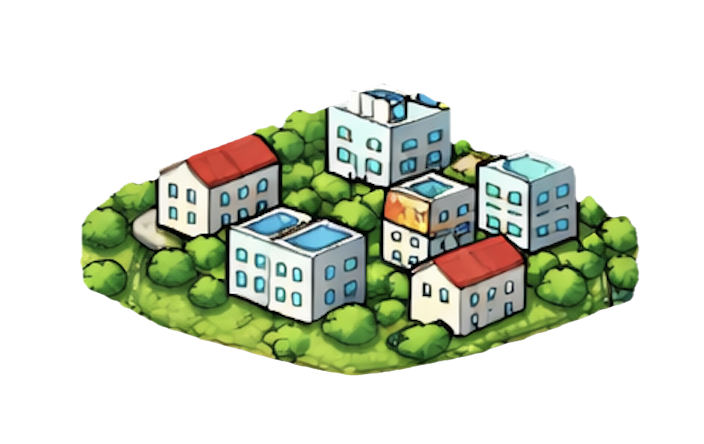
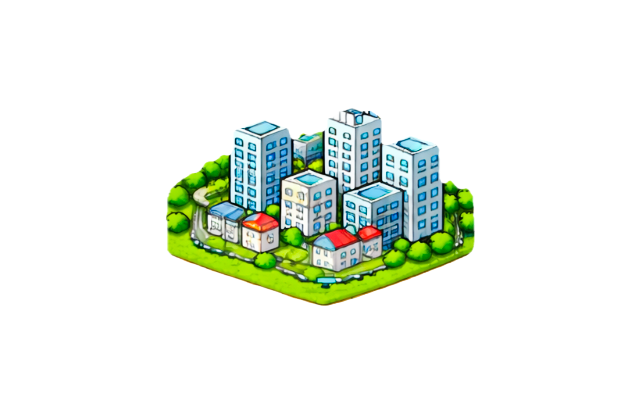
feat: generate normal cities

diff --git a/core/src/main/kotlin/com/tdt4240/group3/model/entities/EntityFactory.kt b/core/src/main/kotlin/com/tdt4240/group3/model/entities/EntityFactory.kt
@@ -7,13 +7,12 @@ import com.tdt4240.group3.model.components.PositionComponent
 import com.tdt4240.group3.model.components.TeamComponent
 import com.tdt4240.group3.model.components.TroopComponent
 import com.badlogic.ashley.core.Entity
-import com.badlogic.gdx.graphics.Texture
-import com.badlogic.gdx.graphics.g2d.TextureRegion
 import com.tdt4240.group3.model.components.TileComponent
 import ktx.ashley.entity
 import ktx.ashley.with
+import kotlin.math.abs
 import kotlin.math.floor
-import kotlin.math.sqrt
+import kotlin.random.Random
 
 class EntityFactory(private val engine: Engine) {
 
@@ -47,7 +46,7 @@ class EntityFactory(private val engine: Engine) {
             this.team = team
         }
     }
-    fun createCity(name: String, isCapital: Boolean, baseProduction: Int, q: Int, r: Int, team: TeamComponent.TeamName) = engine.entity {
+    fun createCapitalCity(name: String, isCapital: Boolean, baseProduction: Int, q: Int, r: Int, team: TeamComponent.TeamName) = engine.entity {
         with<CityComponent> {
             this.name = name
             this.baseProduction = baseProduction
@@ -78,5 +77,46 @@ class EntityFactory(private val engine: Engine) {
             this.r = r
             this.zIndex = 0 // Bottom layer
         }
+    }
+
+    fun generateNormalCities(count: Int, capitalPositions: List<Pair<Int, Int>>) {
+        val cityNames = MapData.CITY_NAMES.toMutableList()
+            .also { it.shuffle(Random(System.currentTimeMillis())) }
+
+        val tileFamily = ktx.ashley.allOf(PositionComponent::class, TileComponent::class).get()
+        val allTiles = engine.getEntitiesFor(tileFamily).map { entity ->
+            val pos = PositionComponent.mapper.get(entity)
+            Pair(pos.q, pos.r)
+        }
+
+        val candidateTiles = allTiles.filter { it !in MapData.WATER_TILES && it !in capitalPositions }
+
+        val placedCities = mutableListOf<Pair<Int, Int>>()
+
+        val shuffled = candidateTiles.shuffled(Random(System.currentTimeMillis()))
+        for (tile in shuffled) {
+            if (placedCities.size >= count) break
+            val tooClose = placedCities.any { placed ->
+                hexDistance(placed.first, placed.second, tile.first, tile.second) < 2
+            } || capitalPositions.any { cap ->
+                hexDistance(cap.first, cap.second, tile.first, tile.second) < 2
+            }
+            if (!tooClose) {
+                placedCities.add(tile)
+                val name = cityNames.getOrElse(placedCities.size - 1) { "City ${placedCities.size}" }
+                createCapitalCity(
+                    name = name,
+                    isCapital = false,
+                    baseProduction = 10,
+                    q = tile.first,
+                    r = tile.second,
+                    team = TeamComponent.TeamName.NONE
+                )
+            }
+        }
+    }
+
+    private fun hexDistance(q1: Int, r1: Int, q2: Int, r2: Int): Int {
+        return (abs(q1 - q2) + abs(q1 + r1 - q2 - r2) + abs(r1 - r2)) / 2
     }
 }

diff --git a/core/src/main/kotlin/com/tdt4240/group3/view/View.kt b/core/src/main/kotlin/com/tdt4240/group3/view/View.kt
@@ -37,7 +37,9 @@ class View(
     private val cityFamily  = allOf(PositionComponent::class, CityComponent::class).get()
     private val troopFamily = allOf(PositionComponent::class, TroopComponent::class).get()
 
-    private val cityTexture  = Texture(Gdx.files.internal("CapitalCity.png"))
+    private val capitalCityTexture  = Texture(Gdx.files.internal("CapitalCity.png"))
+    private val normalCityTexture = Texture(Gdx.files.internal("NormalCity.png"))
+
     private val troopTexture = Texture(Gdx.files.internal("troop.png"))
 
     private val redTroopTexture = Texture(Gdx.files.internal("red_troop.png"))
@@ -78,7 +80,11 @@ class View(
                 .sortedBy { it[PositionComponent.mapper]?.zIndex ?: 0 }
                 .forEach { entity ->
                     when {
-                        cityFamily.matches(entity)  -> drawCity(entity)
+                        cityFamily.matches(entity) -> {
+                            val city = entity[CityComponent.mapper]
+                            if (city?.isCapital == true) drawCapitalCity(entity)
+                            else drawNormalCity(entity)
+                        }
                         troopFamily.matches(entity) -> drawTroop(entity)
                     }
                 }
@@ -127,19 +133,26 @@ class View(
         }
     }
 
-    private fun drawCity(entity: Entity) {
+    private fun drawCapitalCity(entity: Entity) {
         val pos = entity[PositionComponent.mapper] ?: return
         val city = entity[CityComponent.mapper] ?: return
         val width = 42f
         val height = 42f
         val yOffset = 5.5f
         val xOffset = 1f
-        batch.draw(cityTexture, pos.x - width / 2f + xOffset, pos.y - height / 2f + yOffset, width, height)
-        if (city.isCapital) {
-            font.data.setScale(0.7f)
-            font.draw(batch, city.name, pos.x - width / 2f + 5f, pos.y - height / 2f + yOffset)
-            font.data.setScale(1f)
-        }
+        batch.draw(capitalCityTexture, pos.x - width / 2f + xOffset, pos.y - height / 2f + yOffset, width, height)
+        font.data.setScale(0.7f)
+        font.draw(batch, city.name, pos.x - width / 2f + 5f, pos.y - height / 2f + yOffset)
+        font.data.setScale(1f)
+    }
+
+    private fun drawNormalCity(entity: Entity) {
+        val pos = entity[PositionComponent.mapper] ?: return
+        val width = 68.5f
+        val height = 72f
+        val yOffset = 1.5f
+        val xOffset = 0f
+        batch.draw(normalCityTexture, pos.x - width / 2f + xOffset, pos.y - height / 2f + yOffset, width, height)
     }
     private fun drawTroop(entity: Entity) {
         val pos = entity[PositionComponent.mapper] ?: return
@@ -167,7 +180,8 @@ class View(
 
 
     override fun dispose() {
-        cityTexture.disposeSafely()
+        capitalCityTexture.disposeSafely()
+        normalCityTexture.disposeSafely()
         troopTexture.disposeSafely()
         backgroundTexture.disposeSafely()
         redTroopTexture.disposeSafely()

diff --git a/core/src/main/kotlin/com/tdt4240/group3/screens/PlayScreen.kt b/core/src/main/kotlin/com/tdt4240/group3/screens/PlayScreen.kt
@@ -19,16 +19,14 @@ import com.tdt4240.group3.controller.PauseController
 import com.tdt4240.group3.controller.TroopCreationController
 import com.tdt4240.group3.controller.TurnController
 import com.tdt4240.group3.game.playstate.PlaySubState
+import com.tdt4240.group3.model.components.CityComponent
 import com.tdt4240.group3.model.components.PositionComponent
 import com.tdt4240.group3.model.components.TeamComponent
-import com.tdt4240.group3.model.components.TroopComponent
 import com.tdt4240.group3.model.entities.EntityFactory
 import com.tdt4240.group3.model.systems.CollisionSystem
 import com.tdt4240.group3.model.systems.SelectionSystem
 import com.tdt4240.group3.model.systems.TroopCreationSystem
 import com.tdt4240.group3.model.systems.TurnSystem
-import com.tdt4240.group3.states.playstate.EnemyTurnState
-import com.tdt4240.group3.states.playstate.PauseState
 import com.tdt4240.group3.states.playstate.PlayerTurnState
 import ktx.actors.onClick
 import ktx.app.KtxScreen
@@ -63,13 +61,17 @@ class PlayScreen(private val game: Hexa_Battle, private val engine: Engine) : Kt
         camera.position.set(Hexa_Battle.WIDTH / 2f, Hexa_Battle.HEIGHT / 2f, 0f)
         val factory = EntityFactory(engine)
         factory.generateRectangularGrid(18, 15)
-        factory.createCity(
+        factory.createCapitalCity(
             name = "Oslo", isCapital = true, baseProduction = 20,
             q = 1, r = 2, team = TeamComponent.TeamName.RED
         )
-        factory.createCity(
+        factory.createCapitalCity(
             name = "Bergen", isCapital = true, baseProduction = 20,
             q = 10, r = 11, team = TeamComponent.TeamName.BLUE
+        )
+        factory.generateNormalCities(
+            count = 20,
+            capitalPositions = listOf(Pair(1, 2), Pair(10, 11))
         )
         engine.addSystem(turnSystem)
         engine.addSystem(selectionSystem)
@@ -143,7 +145,11 @@ class PlayScreen(private val game: Hexa_Battle, private val engine: Engine) : Kt
         val tile = selectionSystem.findTileAt(worldCoords.x, worldCoords.y)
         val pos = tile?.get(PositionComponent.mapper)
         if (pos != null) {
-            tooltipLabel.setText("q: ${pos.q}, r: ${pos.r}")
+            val city = selectionSystem.findCityAt(worldCoords.x, worldCoords.y)
+            val cityName = city?.get(CityComponent.mapper)?.name
+            val text = if (cityName != null) "q: ${pos.q}, r: ${pos.r}\n$cityName"
+            else "q: ${pos.q}, r: ${pos.r}"
+            tooltipLabel.setText(text)
             tooltipLabel.pack()
             tooltipLabel.setPosition(
                 screenX.toFloat() + 12f,

diff --git a/core/src/main/kotlin/com/tdt4240/group3/model/entities/MapData.kt b/core/src/main/kotlin/com/tdt4240/group3/model/entities/MapData.kt
@@ -1,0 +1,31 @@
+package com.tdt4240.group3.model.entities
+
+object MapData {
+
+    val WATER_TILES = setOf(
+        Pair(-4, 14), Pair(-3, 14), Pair(-2, 14),
+        Pair(2, 9), Pair(3, 9), Pair(2, 8), Pair(3, 8), Pair(2, 7), Pair(3, 7), Pair(4, 7),
+        Pair(9, 14), Pair(10, 14), Pair(9, 13), Pair(10, 13), Pair(9, 12), Pair(10, 12),
+        Pair(10, 5), Pair(10, 4), Pair(11, 4),
+        Pair(6, 1), Pair(7, 1), Pair(8, 1), Pair(9, 1), Pair(10, 1),
+        Pair(6, 0), Pair(7, 0), Pair(8, 0), Pair(9, 0), Pair(10, 0), Pair(11, 0), Pair(12, 0)
+    )
+
+    val CITY_NAMES = listOf(
+        "Aakrehavn", "Aalesund", "Alta", "Aandalsnes", "Arendal", "Aas", "Aasgaardstrand",
+        "Askim", "Askoey", "Bodoe", "Brevik", "Broennoeysund", "Brumunddal", "Bryne",
+        "Drammen", "Droebak", "Egersund", "Eidsvoll", "Elverum", "Fagernes", "Fauske",
+        "Finnsnes", "Flekkefjord", "Floroe", "Foerde", "Fosnavaaag", "Fredrikstad", "Gjoevik",
+        "Grimstad", "Halden", "Hamar", "Hammerfest", "Harstad", "Haugesund", "Hokksund",
+        "Holmestrand", "Hoenefoss", "Honningsvaaag", "Horten", "Jessheim", "Joerpeland",
+        "Kirkenes", "Kongsberg", "Kongsvinger", "Kopervik", "Krageroe", "Kristiansand",
+        "Kristiansund", "Langesund", "Larvik", "Leknes", "Levanger", "Lillehammer",
+        "Lillesand", "Lillestrøm", "Lyngdal", "Mandal", "Moelv", "Mo i Rana", "Molde",
+        "Mosjoen", "Moss", "Naeroeay", "Namsos", "Narvik", "Nesoddtangen", "Notodden",
+        "Odda", "Orkanger", "Otta", "Porsgrunn", "Raufoss", "Risoer", "Rjukan",
+        "Sandefjord", "Sandnes", "Sandnessjoen", "Sandvika", "Sauda", "Ski", "Skien",
+        "Sortland", "Stavanger", "Stavern", "Steinkjer", "Stjoerdal", "Stokmarknes",
+        "Stord", "Svelvik", "Svolvaer", "Toensberg", "Tromsoe", "Trondheim", "Tvedestrand",
+        "Ulsteinvik", "Vadsoe", "Vardoe", "Farsund", "Maaloey", "Verdal", "Vestby", "Vinstra"
+    )
+}

diff --git a/core/src/main/kotlin/com/tdt4240/group3/model/systems/SelectionSystem.kt b/core/src/main/kotlin/com/tdt4240/group3/model/systems/SelectionSystem.kt
@@ -4,6 +4,7 @@ import com.badlogic.ashley.core.Entity
 import com.badlogic.ashley.core.EntitySystem
 import com.badlogic.gdx.Gdx
 import com.tdt4240.group3.controller.TurnController
+import com.tdt4240.group3.model.components.CityComponent
 import com.tdt4240.group3.model.components.PositionComponent
 import com.tdt4240.group3.model.components.TeamComponent
 import com.tdt4240.group3.model.components.TileComponent
@@ -18,6 +19,9 @@ class SelectionSystem(private val turnSystem: TurnSystem) : EntitySystem() {
         private set
 
     private val tileFamily = allOf(PositionComponent::class, TileComponent::class).get()
+
+    private val cityFamily  = allOf(PositionComponent::class, CityComponent::class).get()
+
     private val troopFamily =
         allOf(PositionComponent::class, TroopComponent::class, TeamComponent::class).get()
 
@@ -113,6 +117,14 @@ class SelectionSystem(private val turnSystem: TurnSystem) : EntitySystem() {
                 val pos = entity[PositionComponent.mapper] ?: return@takeIf false
                 Math.abs(pos.x.toFloat() - worldX) < 16f && Math.abs(pos.y.toFloat() - worldY) < 16f
             }
+    }
+
+    fun findCityAt(worldX: Float, worldY: Float): Entity? {
+        return engine.entities.firstOrNull { entity ->
+            if (!cityFamily.matches(entity)) return@firstOrNull false
+            val pos = entity[PositionComponent.mapper] ?: return@firstOrNull false
+            Math.abs(pos.x - worldX) < 16f && Math.abs(pos.y - worldY) < 16f
+        }
     }
 
     private fun hexDistance(q1: Int, r1: Int, q2: Int, r2: Int): Int {
